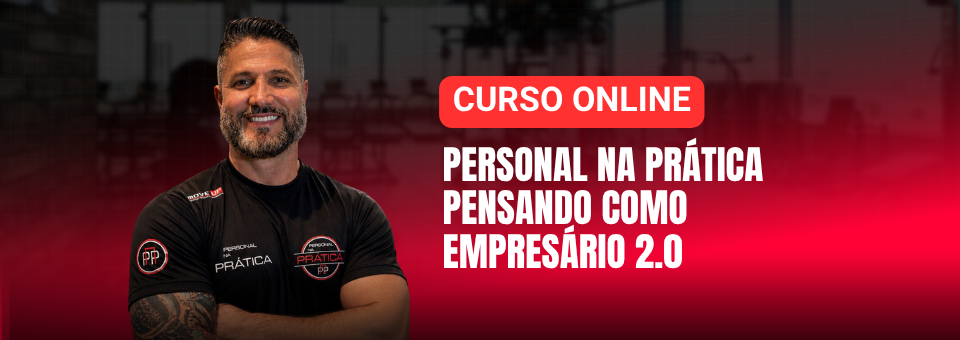
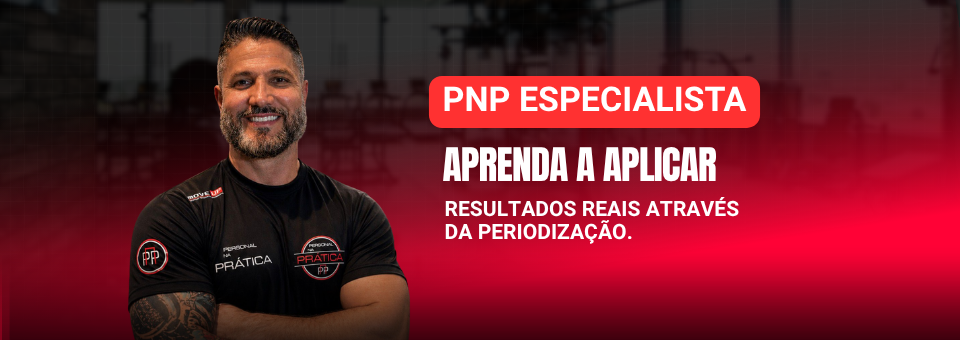
docs(bio): update partner links and media assets on bio page
Rearrange partner link order, add new PNP Base landing page link, update existing bio images, and add supplemental image assets.

Changed region(s): [[0.4375, 0.5588, 0.7812, 0.7941], [0.4375, 0.2059, 0.8125, 0.3824], [0.4688, 0.4118, 0.8125, 0.5294]]

diff --git a/bio/index.html b/bio/index.html
@@ -194,10 +194,11 @@
      * alt: Texto alternativo para acessibilidade (opcional, mas recomendado).
      */
     const linksData = [
-      { url: "https://desafioagoraoununca.com.br/", img: "3.png", alt: "Desafios de Treino Agora ou Nunca" },
-      { url: "https://personalnapratica.com.br/consultoria", img: "0.png", alt: "Consultoria — Personal na Prática" },
+      { url: "../temp/pnp-base/index.html", img: "00.png", alt: "PNP Base — Aprenda a Pensar, Avaliação e Prescrição Inteligente" },
       { url: "../", img: "1.png", alt: "Curso Online Personal na Prática" },
       { url: "../mentoria/", img: "2.png", alt: "Mentoria Ao Vivo" },
+      { url: "https://desafioagoraoununca.com.br/", img: "3.png", alt: "Desafios de Treino Agora ou Nunca" },
+      { url: "https://personalnapratica.com.br/consultoria", img: "0.png", alt: "Consultoria — Personal na Prática" },
       { url: "https://www.youtube.com/rodrigoassipersonalnapratica", img: "4.png", alt: "Imagem Link 4" },
       { url: "https://api.whatsapp.com/send?1=pt_BR&phone=5511976563187&text=Faaaaaaala%2C+Personal+na+Pr%C3%A1tica+%E2%80%A6%0AMe+responde+%21%21%21%0AVoc%C3%AA+quer+falar+sobre+TREINO+OU+CURSO+%3F+", img: "5.png", alt: "Imagem Link 5" }
     ];
